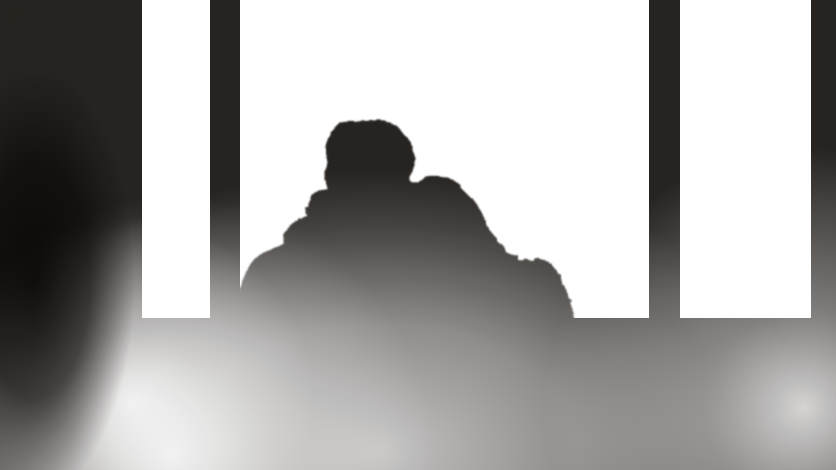
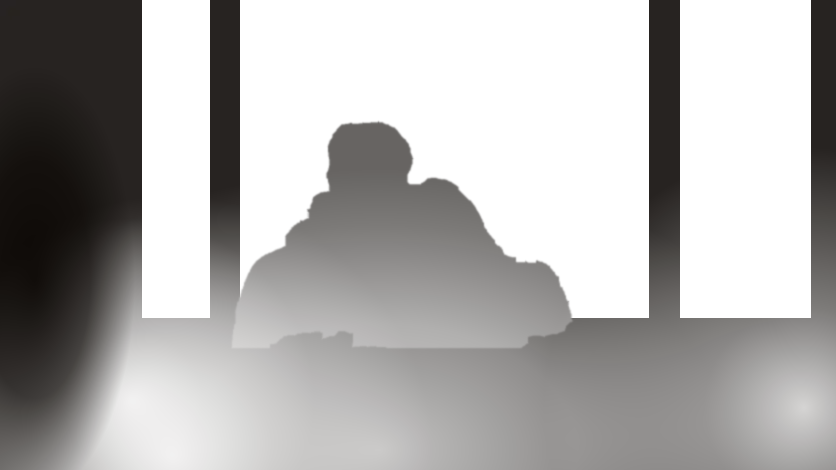
Ngắm tuyết: bỏ đèn bàn tự sáng định kỳ (trông như đèn nháy); 5 kiểu sao băng; tuyết bám ngoài cửa; ánh sáng hai người hợp lý hơn (viền lạnh, ánh tuyết trên bậu cửa)
Claude-Session: https://claude.ai/code/session_018LWP6QAxse55v6Pm2E99MN

Changed region(s): [[0.2799, 0.2383, 0.6842, 0.7447]]

diff --git a/src/scenes/SnowWatch.tsx b/src/scenes/SnowWatch.tsx
@@ -4,7 +4,6 @@ import { isLite, reducedMotion } from '../lib/device'
 import { weather } from '../lib/weather'
 import { Dust } from './Tree'
 import { LitSpot } from '../components/LitSpot'
-import { useHintPulse } from '../lib/hintPulse'
 import { lights, useLights } from '../lib/lights'
 import { SNOW as L, LM } from './snowLayout'
 
@@ -50,12 +49,22 @@ function SnowFall({ active }: { active: boolean }) {
   return <canvas ref={ref} className="sw-cv" aria-hidden />
 }
 
-/** Sao băng bay qua bầu trời mỗi khi `fire` tăng lên (do bộ hẹn giờ của cảnh quyết định, thỉnh thoảng và ngẫu nhiên). */
-function Meteors({ active, fire }: { active: boolean; fire: number }) {
+type Kind = 'classic' | 'gold' | 'twin' | 'comet' | 'shower'
+/** Năm kiểu sao băng, chọn ngẫu nhiên theo độ hiếm: sao băng trắng xanh (hay gặp), sao vàng bay chậm rắc tia lấp lánh, hai sao song song, sao chổi lớn (hiếm), và mưa sao nhỏ (vài vệt mảnh liên tiếp). */
+const KINDS: [Kind, number][] = [['classic', 0.38], ['gold', 0.2], ['twin', 0.14], ['comet', 0.1], ['shower', 0.18]]
+/** Xem thử một kiểu: thêm ?meteor=gold (classic, gold, twin, comet, shower) vào địa chỉ. */
+const forced = typeof location !== 'undefined' ? new URLSearchParams(location.search).get('meteor') : null
+const pickKind = (): Kind => {
+  if (forced && KINDS.some(([k]) => k === forced)) return forced as Kind
+  let r = Math.random(); for (const [k, w] of KINDS) { if ((r -= w) < 0) return k } return 'classic'
+}
+
+/** Sao băng bay qua bầu trời mỗi khi `fire.n` tăng lên (do bộ hẹn giờ của cảnh quyết định, thỉnh thoảng và ngẫu nhiên). */
+function Meteors({ active, fire }: { active: boolean; fire: { n: number; kind: Kind } }) {
   const ref = useRef<HTMLCanvasElement>(null)
-  const pending = useRef(0)
-  const lastFire = useRef(fire)
-  if (fire !== lastFire.current) { lastFire.current = fire; pending.current++ }
+  const pending = useRef<Kind[]>([])
+  const lastFire = useRef(fire.n)
+  if (fire.n !== lastFire.current) { lastFire.current = fire.n; pending.current.push(fire.kind) }
   useEffect(() => {
     const cv = ref.current!, ctx = cv.getContext('2d')!
     if (reducedMotion() || !active) return
@@ -63,34 +72,148 @@ function Meteors({ active, fire }: { active: boolean; fire: number }) {
     cv.width = L.w * K; cv.height = L.h * K
     ctx.scale(K, K)
     ctx.beginPath(); L.panes.forEach(([x, y, w, h]) => ctx.rect(x, y, w, h)); ctx.clip()
-    type M = { x: number; y: number; vx: number; vy: number; life: number; max: number; len: number }
-    const ms: M[] = []
+    type M = { x: number; y: number; vx: number; vy: number; life: number; max: number; len: number; w: number; head: number; rgb: [number, number, number]; spark: number; delay: number }
+    type S = { x: number; y: number; vx: number; vy: number; life: number; max: number; r: number; rgb: [number, number, number] }
+    const ms: M[] = [], sp: S[] = []
     let raf = 0, last = performance.now()
-    const spawn = () => {
-      const a = (Math.PI * (0.78 + Math.random() * 0.1)) // hướng xuống trái
-      const sp = 900 + Math.random() * 500
-      ms.push({ x: 800 + Math.random() * 760, y: 10 + Math.random() * 150, vx: Math.cos(a) * sp, vy: Math.sin(a) * sp, life: 0, max: 0.8 + Math.random() * 0.5, len: 300 + Math.random() * 200 })
+    const dirOf = () => { // phần lớn bay xuống trái, đôi khi xuống phải
+      const right = Math.random() < 0.28
+      return right ? Math.PI * (0.1 + Math.random() * 0.1) : Math.PI * (0.78 + Math.random() * 0.1)
+    }
+    const add = (o: Partial<M> & { x: number; y: number; a: number; speed: number }) => {
+      ms.push({ x: o.x, y: o.y, vx: Math.cos(o.a) * o.speed, vy: Math.sin(o.a) * o.speed, life: 0, max: o.max ?? 1, len: o.len ?? 300, w: o.w ?? 4, head: o.head ?? 14, rgb: o.rgb ?? [200, 224, 255], spark: o.spark ?? 0, delay: o.delay ?? 0 })
+    }
+    const spawn = (kind: Kind) => {
+      const a = dirOf()
+      const x = a < 1.6 ? 760 + Math.random() * 820 : 520 + Math.random() * 520
+      const y = 12 + Math.random() * 170
+      if (kind === 'classic') add({ x, y, a, speed: 900 + Math.random() * 500, max: 0.8 + Math.random() * 0.5, len: 300 + Math.random() * 200 })
+      else if (kind === 'gold') add({ x, y, a, speed: 520 + Math.random() * 180, max: 1.7 + Math.random() * 0.5, len: 380, w: 5, head: 18, rgb: [255, 214, 140], spark: 1 })
+      else if (kind === 'twin') { const off = 26 + Math.random() * 18; const nx = -Math.sin(a) * off, ny = Math.cos(a) * off
+        add({ x, y, a, speed: 880, max: 0.9, len: 300, w: 3.4 }); add({ x: x + nx, y: y + ny + 14, a, speed: 820, max: 0.95, len: 240, w: 2.6, delay: 0.1 }) }
+      else if (kind === 'comet') add({ x: x - 100, y: y + 10, a, speed: 430 + Math.random() * 90, max: 2.4, len: 560, w: 7, head: 30, rgb: [170, 235, 230], spark: 2 })
+      else for (let i = 0; i < 4 + Math.floor(Math.random() * 3); i++) // mưa sao nhỏ
+        add({ x: x - 160 + Math.random() * 360, y: 8 + Math.random() * 180, a: a + (Math.random() - 0.5) * 0.08, speed: 1000 + Math.random() * 500, max: 0.5 + Math.random() * 0.3, len: 120 + Math.random() * 100, w: 2, head: 8, delay: i * (0.18 + Math.random() * 0.3) })
     }
     const frame = (t: number) => {
       const dt = Math.min(0.05, (t - last) / 1000); last = t
-      while (pending.current > 0) { pending.current--; spawn() }
+      while (pending.current.length) spawn(pending.current.shift()!)
       ctx.clearRect(0, 0, L.w, L.h)
       for (let i = ms.length - 1; i >= 0; i--) {
-        const m = ms[i]; m.life += dt
+        const m = ms[i]
+        if (m.delay > 0) { m.delay -= dt; continue }
+        m.life += dt
         if (m.life > m.max) { ms.splice(i, 1); continue }
         m.x += m.vx * dt; m.y += m.vy * dt
         const k = m.life / m.max, a = Math.sin(Math.PI * Math.min(1, k * 1.15))
-        const nx = -m.vx / Math.hypot(m.vx, m.vy), ny = -m.vy / Math.hypot(m.vx, m.vy)
+        const sp0 = Math.hypot(m.vx, m.vy), nx = -m.vx / sp0, ny = -m.vy / sp0
         const tx = m.x + nx * m.len, ty = m.y + ny * m.len
+        const [R, G, B] = m.rgb
         const g = ctx.createLinearGradient(m.x, m.y, tx, ty)
-        g.addColorStop(0, `rgba(255,255,255,${0.95 * a})`); g.addColorStop(0.35, `rgba(200,224,255,${0.45 * a})`); g.addColorStop(1, 'rgba(180,210,255,0)')
-        ctx.strokeStyle = g; ctx.lineWidth = 4.2; ctx.lineCap = 'round'
+        g.addColorStop(0, `rgba(255,255,255,${0.95 * a})`); g.addColorStop(0.3, `rgba(${R},${G},${B},${0.5 * a})`); g.addColorStop(1, `rgba(${R},${G},${B},0)`)
+        ctx.strokeStyle = g; ctx.lineWidth = m.w; ctx.lineCap = 'round'
         ctx.beginPath(); ctx.moveTo(m.x, m.y); ctx.lineTo(tx, ty); ctx.stroke()
-        const h = ctx.createRadialGradient(m.x, m.y, 0, m.x, m.y, 14)
-        h.addColorStop(0, `rgba(255,255,255,${a})`); h.addColorStop(1, 'rgba(210,230,255,0)')
-        ctx.fillStyle = h; ctx.beginPath(); ctx.arc(m.x, m.y, 14, 0, 6.283); ctx.fill()
+        const h = ctx.createRadialGradient(m.x, m.y, 0, m.x, m.y, m.head)
+        h.addColorStop(0, `rgba(255,255,255,${a})`); h.addColorStop(1, `rgba(${R},${G},${B},0)`)
+        ctx.fillStyle = h; ctx.beginPath(); ctx.arc(m.x, m.y, m.head, 0, 6.283); ctx.fill()
+        if (m.spark && !isLite() && sp.length < 140) { // rắc tia lấp lánh dọc đường bay
+          const n = (m.spark === 2 ? 70 : 34) * dt
+          for (let j = 0; j < n + (Math.random() < n % 1 ? 1 : 0); j++) { const f = Math.random() * 0.55
+            sp.push({ x: m.x + nx * m.len * f, y: m.y + ny * m.len * f, vx: (Math.random() - 0.5) * 30, vy: 10 + Math.random() * 30, life: 0, max: 0.5 + Math.random() * 0.7, r: 1.2 + Math.random() * 2.2, rgb: m.rgb }) }
+        }
+      }
+      for (let i = sp.length - 1; i >= 0; i--) {
+        const q = sp[i]; q.life += dt
+        if (q.life > q.max) { sp.splice(i, 1); continue }
+        q.x += q.vx * dt; q.y += q.vy * dt
+        const a = (1 - q.life / q.max) * 0.85, r = q.r * (0.6 + 0.4 * Math.sin(q.life * 14 + i))
+        ctx.fillStyle = `rgba(${q.rgb[0]},${q.rgb[1]},${q.rgb[2]},${a})`
+        ctx.beginPath(); ctx.arc(q.x, q.y, r, 0, 6.283); ctx.fill()
       }
       raf = requestAnimationFrame(frame)
+    }
+    raf = requestAnimationFrame(frame)
+    return () => cancelAnimationFrame(raf)
+  }, [active])
+  return <canvas ref={ref} className="sw-cv" aria-hidden />
+}
+
+/**
+ * Tuyết bám ngoài cửa sổ: một đụn tuyết tích trên bậu cửa phía ngoài (mép trên gồ ghề, dồn lên sát khung gỗ ở hai bên), tuyết dính dọc mép khung,
+ * và những cụm tuyết nhỏ dính trên mặt kính (nhiều ở phía dưới và quanh mép). Vẽ sẵn một lần; tuyết dày dần trong khoảng 45 giây đầu rồi đứng yên (sau đó không tốn tính toán).
+ * Mức dày được nhớ giữa các lần vào cảnh.
+ */
+let snowGrown = 0.3
+function ClingSnow({ active }: { active: boolean }) {
+  const ref = useRef<HTMLCanvasElement>(null)
+  useEffect(() => {
+    const cv = ref.current!, ctx = cv.getContext('2d')!
+    const K = 0.5, W = Math.round(L.w * K), H = Math.round(L.h * K)
+    cv.width = W; cv.height = H
+    let sd = 11
+    const rnd = () => ((sd = (sd * 16807) % 2147483647) / 2147483647)
+    const mk = () => { const c = document.createElement('canvas'); c.width = W; c.height = H; return c }
+    const drift = mk(), clumps = mk()
+    const d = drift.getContext('2d')!, c = clumps.getContext('2d')!
+    d.scale(K, K); c.scale(K, K)
+    // ---- đụn tuyết trên bậu cửa phía ngoài + tuyết dính mép khung ----
+    d.filter = 'blur(2px)'
+    for (const [px, py, pw, ph] of L.panes) {
+      const yb = py + ph, ph1 = rnd() * 6, ph2 = rnd() * 6, ph3 = rnd() * 6
+      const top = (x: number) => { // độ cao đụn tại x (px khung ảnh)
+        const u = x - px
+        let h = 40 + 22 * Math.sin(u * 0.012 + ph1) + 12 * Math.sin(u * 0.029 + ph2) + 6 * Math.sin(u * 0.071 + ph3)
+        h += 34 * Math.exp(-u / 46) + 34 * Math.exp(-(pw - u) / 46) // dồn lên sát khung gỗ hai bên
+        return Math.max(12, h)
+      }
+      const grad = d.createLinearGradient(0, yb - 90, 0, yb)
+      grad.addColorStop(0, '#fbfdff'); grad.addColorStop(0.5, '#e6eefa'); grad.addColorStop(1, '#a9bddc')
+      d.fillStyle = grad
+      d.beginPath(); d.moveTo(px, yb)
+      for (let x = px; x <= px + pw; x += 3) d.lineTo(x, yb - top(x))
+      d.lineTo(px + pw, yb); d.closePath(); d.fill()
+      // vệt sáng ở mép trên đụn và vài điểm lấp lánh
+      d.strokeStyle = 'rgba(255,255,255,.85)'; d.lineWidth = 2.2; d.beginPath()
+      for (let x = px; x <= px + pw; x += 3) { const y = yb - top(x) + 1; x === px ? d.moveTo(x, y) : d.lineTo(x, y) }
+      d.stroke()
+      // tuyết dính dọc mép khung bên trái và bên phải (dày ở dưới, mỏng dần lên trên)
+      for (const side of [0, 1]) {
+        d.beginPath(); const x0 = side ? px + pw : px
+        d.moveTo(x0, yb)
+        for (let y = yb; y > py + 20; y -= 4) { const hh = (yb - y) / ph; const w = (3 + 17 * (1 - hh) ** 2.2) * (0.55 + 0.45 * Math.sin(y * 0.09 + side * 2 + ph1)); d.lineTo(x0 + (side ? -w : w), y) }
+        d.lineTo(x0, py + 20); d.closePath(); d.fillStyle = 'rgba(236,243,252,.82)'; d.fill()
+      }
+    }
+    d.filter = 'none'
+    // ---- cụm tuyết nhỏ dính trên mặt kính ----
+    for (let i = 0; i < 280; i++) {
+      const pi = Math.floor(rnd() * L.panes.length), [px, py, pw, ph] = L.panes[pi]
+      const edge = rnd() < 0.5 // một nửa dính sát mép khung
+      const x = px + 6 + (edge ? (rnd() < 0.5 ? rnd() * 34 : pw - 6 - rnd() * 34) : rnd() * (pw - 12))
+      const y = py + 10 + (ph - 24) * (1 - Math.pow(rnd(), 1.9))
+      const r = 1.6 + rnd() * rnd() * 8
+      const g = c.createRadialGradient(x - r * 0.25, y - r * 0.3, 0, x, y, r)
+      g.addColorStop(0, 'rgba(255,255,255,.95)'); g.addColorStop(0.65, 'rgba(236,243,252,.8)'); g.addColorStop(1, 'rgba(210,224,244,0)')
+      c.fillStyle = g; c.beginPath(); c.arc(x, y, r, 0, 6.283); c.fill()
+      if (r > 3) { c.strokeStyle = 'rgba(120,150,195,.28)'; c.lineWidth = 0.9; c.beginPath(); c.arc(x, y + 0.4, r * 0.88, 0.15 * Math.PI, 0.85 * Math.PI); c.stroke() } // bóng đổ dưới cụm lớn
+    }
+    const draw = (g: number) => {
+      ctx.clearRect(0, 0, W, H)
+      ctx.save(); ctx.beginPath(); L.panes.forEach(([x, y, w, h]) => ctx.rect(x * K, y * K, w * K, h * K)); ctx.clip()
+      const yb = (L.panes[0][1] + L.panes[0][3]) * K
+      ctx.translate(0, yb); ctx.scale(1, 0.25 + 0.75 * g); ctx.translate(0, -yb) // đụn dày lên từ dưới
+      ctx.drawImage(drift, 0, 0)
+      ctx.setTransform(1, 0, 0, 1, 0, 0)
+      ctx.globalAlpha = Math.min(1, 0.25 + 0.75 * g); ctx.drawImage(clumps, 0, 0)
+      ctx.restore(); ctx.globalAlpha = 1
+    }
+    draw(snowGrown)
+    if (!active || reducedMotion() || snowGrown >= 1) { if (reducedMotion()) { snowGrown = 1; draw(1) } return }
+    let raf = 0, last = performance.now()
+    const frame = (t: number) => {
+      const dt = Math.min(0.05, (t - last) / 1000); last = t
+      if (!document.hidden) { snowGrown = Math.min(1, snowGrown + dt / 45); draw(snowGrown) }
+      if (snowGrown < 1) raf = requestAnimationFrame(frame)
     }
     raf = requestAnimationFrame(frame)
     return () => cancelAnimationFrame(raf)
@@ -240,11 +363,10 @@ export default function SnowWatch({ active }: { active: boolean }) {
     const keep = [...L.poses.map((q) => q.hide), ...LM.dark, ...LM.warm].map((u) => { const im = new Image(); im.decoding = 'async'; im.src = u; im.decode?.().catch(() => {}); return im })
     return () => { keep.length = 0 }
   }, [])
-  const pulse = useHintPulse(1, active, lampHov)
   const [g, setG] = useState({ s: 1, x: 0, y: 0 })
   const [pose, setPose] = useState(0)
   const [maskPose, setMaskPose] = useState(0)
-  const [fire, setFire] = useState(0)
+  const [fire, setFire] = useState<{ n: number; kind: Kind }>({ n: 0, kind: 'classic' })
   const wipeRef = useRef<(x: number, y: number, px: number, py: number) => void>(() => {})
   const prev = useRef<[number, number] | null>(null)
 
@@ -271,11 +393,12 @@ export default function SnowWatch({ active }: { active: boolean }) {
     const next = (first: boolean) => at(first ? 5000 + Math.random() * 4000 : 14000 + Math.random() * 18000, go)
     const go = () => {
       if (document.hidden) { next(false); return }
+      const kind = pickKind()
       if (Math.random() < 0.75) {
         setPose(1); at(FADE / 2, () => setMaskPose(1))
-        at(FADE + 150, () => setFire((n) => n + 1))
+        at(FADE + 150, () => setFire((f) => ({ n: f.n + 1, kind })))
         at(POSE_HOLD, () => { setPose(0); at(FADE / 2, () => setMaskPose(0)); at(FADE, () => next(false)) })
-      } else { setFire((n) => n + 1); next(false) }
+      } else { setFire((f) => ({ n: f.n + 1, kind })); next(false) }
     }
     next(true)
     return () => { T.forEach(clearTimeout); setPose(0); setMaskPose(0) }
@@ -309,8 +432,9 @@ export default function SnowWatch({ active }: { active: boolean }) {
 
           {/* tuyết, hơi nước và sao băng ở sau kính: đi sau lưng hai người nhờ mặt nạ theo dáng ngồi hiện tại */}
           <div className="sw-fx" style={maskStyle}>
-            <SnowFall active={active} />
             <Meteors active={active} fire={fire} />
+            <SnowFall active={active} />
+            <ClingSnow active={active} />
             <Fog active={active} wipeRef={wipeRef} />
           </div>
 
@@ -318,7 +442,7 @@ export default function SnowWatch({ active }: { active: boolean }) {
             onPointerMove={(e) => { if (e.pointerType === 'mouse' || e.buttons || e.pointerType === 'touch') move(e) }}
             onPointerLeave={() => { prev.current = null }} onPointerUp={() => { prev.current = null }} />
 
-          <LitSpot src={L.poses[0].src} w={L.w} h={L.h} poly={L.lamp} on={lampHov || pulse === 0} strength={0.5} />
+          <LitSpot src={L.poses[0].src} w={L.w} h={L.h} poly={L.lamp} on={lampHov} strength={0.5} />
           {L.flames.map(([x, y, k], i) => <i key={i} className="sw-flame" style={{ left: x - 260 * k, top: y - 260 * k, width: 520 * k, height: 520 * k, animationDelay: `-${i * 0.7}s` }} />)}
           {active && <Dust w={L.w} h={L.h} />}
 

diff --git a/tools/snow/bake-light.py b/tools/snow/bake-light.py
@@ -26,8 +26,10 @@ def over(c1,a1,c2,a2):  # c2,a2 phía trên
     return c,a
 for n in ['1','2']:
     sil=cv2.imread(os.path.join(HERE,f'cut-{n}.png'),cv2.IMREAD_UNCHANGED)[...,3].astype(np.float32)/255
+    sil=cv2.erode(sil,np.ones((5,5),np.uint8))  # mặt nạ cắt nở ra vài px quanh người: thu về đúng mép thật, không còn quầng tối quanh đầu
     mask=sil+(1-sil)*notpane
-    D=.88*F*mask
+    # phòng tối .88; hai người nhẹ hơn (.62) vì mặt lưng quay về phía nến và đồ vật gần máy quay, nên còn thấy được sợi tóc và vân áo
+    D=F*(.88*(1-sil)*notpane+.62*sil)
     D=1-(1-D)*(1-patch)
     dark=np.zeros((H,W,4),np.uint8); dark[...,0]=9; dark[...,1]=4; dark[...,2]=2; dark[...,3]=np.clip(D*255,0,255)
     Image.fromarray(dark,'RGBA').save(A+f'snow-dark-{n}.webp',quality=80,method=6)
@@ -42,11 +44,20 @@ for n in ['1','2']:
     c,a=cool_c,cool_a
     c,a=over(c,a,ell_c,ell_a)
     for ca in cand: c,a=over(c,a,np.broadcast_to(warm_c,(H,W,3)).copy(),ca)
+    # viền sáng lạnh: ánh tuyết ngoài cửa sổ chiếu vào mặt trước hai người, nên nhìn từ phía sau chỉ thấy một đường sáng mảnh ôm theo đỉnh đầu, tóc và vai (mạnh ở phía trên, mất dần xuống thân)
+    e2=cv2.erode(sil,np.ones((5,5),np.uint8)); band=cv2.GaussianBlur(np.clip(sil-e2,0,1),(0,0),.8)  # một đường mảnh ngay trong mép thật
+    rim_a=np.clip(band*np.interp(Y,[160,420,660],[.42,.24,0]),0,1)
+    rim_c=np.broadcast_to(np.array([150,190,245],np.float32),(H,W,3)).copy()
+    c,a=over(c,a,rim_c,rim_a)
     fo=np.interp(Y,[560,696],[1,0]); a1=a*sil*fo; c1=c
     # lớp trên chăn+bàn (toàn chiều ngang): ellipse + nến
     c,a=ell_c,ell_a
     for ca in cand: c,a=over(c,a,np.broadcast_to(warm_c,(H,W,3)).copy(),ca)
+    # ánh tuyết ngoài cửa sổ hắt xuống bậu cửa, gối và mặt chăn gần cửa: một dải xanh lạnh nhạt ngay dưới mép kính, rộng bằng khung cửa
+    sp_x=np.interp(X,[285,420,1500,1622],[0,1,1,0]); sp_a=np.interp(Y,[636,690,820],[0,.15,0])*sp_x
+    sp_c=np.broadcast_to(np.array([140,178,232],np.float32),(H,W,3)).copy()
     fi=np.interp(Y,[560,696],[0,1]); a2=a*fi; c2=c
+    c2,a2=over(c2,a2,sp_c,sp_a)
     co,ao=over(c1,a1,c2,a2)
     warm=np.zeros((H,W,4),np.uint8); warm[...,:3]=np.clip(co,0,255); warm[...,3]=np.clip(ao*255,0,255)
     Image.fromarray(warm,'RGBA').save(A+f'snow-warm-{n}.webp',quality=80,method=6)

diff --git a/HANDOFF.md b/HANDOFF.md
@@ -153,3 +153,9 @@ npx tsc -b        # kiểm tra kiểu
 ### Cập nhật cảnh ngắm tuyết: đèn bàn bấm được + ánh nến hắt lên hai người
 - Bấm chiếc đèn bàn bên trái (`SNOW.lamp`, đa giác theo ảnh gốc) để tắt/bật đèn (công tắc chung `lights`); rê chuột thì đèn sáng khẽ kèm bụi sao (`LitSpot`), thỉnh thoảng gợi ý nhẹ (`useHintPulse`). Nút bóng đèn góc trên phải vẫn còn.
 - (Đã thay bằng trường sáng elip, xem mục trên.) Trước đây độ tối chỉ theo khoảng cách tới ba ngọn nến (`bodyHoles`). Nến nằm phía trước hai người (bàn trà bên trái, đèn lồng bên phải), nên ánh nến ấm (`warmBg`) hắt lên lưng và vai họ, mạnh ở phía gần nến; ánh xanh lạnh của tuyết ngoài cửa sổ phủ lên đỉnh đầu và vai. Hai lớp ấm (người / chăn+bàn) bù nhau theo gradient dọc nên không có ranh giới ở thắt lưng. Cây thông và đèn bàn tắt hẳn (lớp tối riêng), chỉ nến còn sáng.
+
+### Cảnh ngắm tuyết: sao băng nhiều kiểu, tuyết bám ngoài cửa, ánh sáng hợp lý hơn
+- **Hết "đèn nháy":** nguyên nhân là gợi ý định kỳ của đèn bàn (`useHintPulse` làm đèn sáng vọt mỗi 8-14 giây, trông như đèn bật tắt). Đã bỏ; đèn bàn chỉ sáng khẽ khi rê chuột.
+- **Sao băng 5 kiểu** (`Meteors`, `KINDS` trong `SnowWatch.tsx`): trắng xanh (hay gặp), vàng bay chậm rắc tia lấp lánh, hai sao song song, sao chổi lớn xanh ngọc (hiếm), mưa sao nhỏ (vài vệt mảnh liên tiếp). Hướng phần lớn xuống trái, đôi khi xuống phải. Xem thử một kiểu: thêm `?meteor=gold` (classic, gold, twin, comet, shower) vào địa chỉ.
+- **Tuyết bám ngoài cửa** (`ClingSnow`): đụn tuyết tích trên bậu cửa phía ngoài (mép gồ ghề, dồn lên sát khung gỗ), tuyết dính dọc mép khung, hàng trăm cụm nhỏ dính trên kính (nhiều ở dưới và quanh mép). Dày dần trong ~45 giây đầu rồi đứng yên (không tốn tính toán nữa); mức dày nhớ giữa các lần vào cảnh. Thứ tự lớp: sao băng -> tuyết rơi -> tuyết bám -> hơi nước.
+- **Ánh sáng khi tắt đèn** (bake trong `tools/snow/bake-light.py`): hai người nhẹ hơn phòng (.62 so với .88; lưng quay về phía nến nên còn thấy sợi tóc, vân áo), mặt nạ thu về đúng mép thật (hết quầng tối quanh đầu), một đường sáng lạnh mảnh ngay trong mép (ánh tuyết ngoài cửa chiếu vào mặt trước họ, nhìn từ phía sau chỉ thấy viền), và dải ánh tuyết lạnh nhạt trên bậu cửa, gối và mặt chăn gần cửa sổ.
